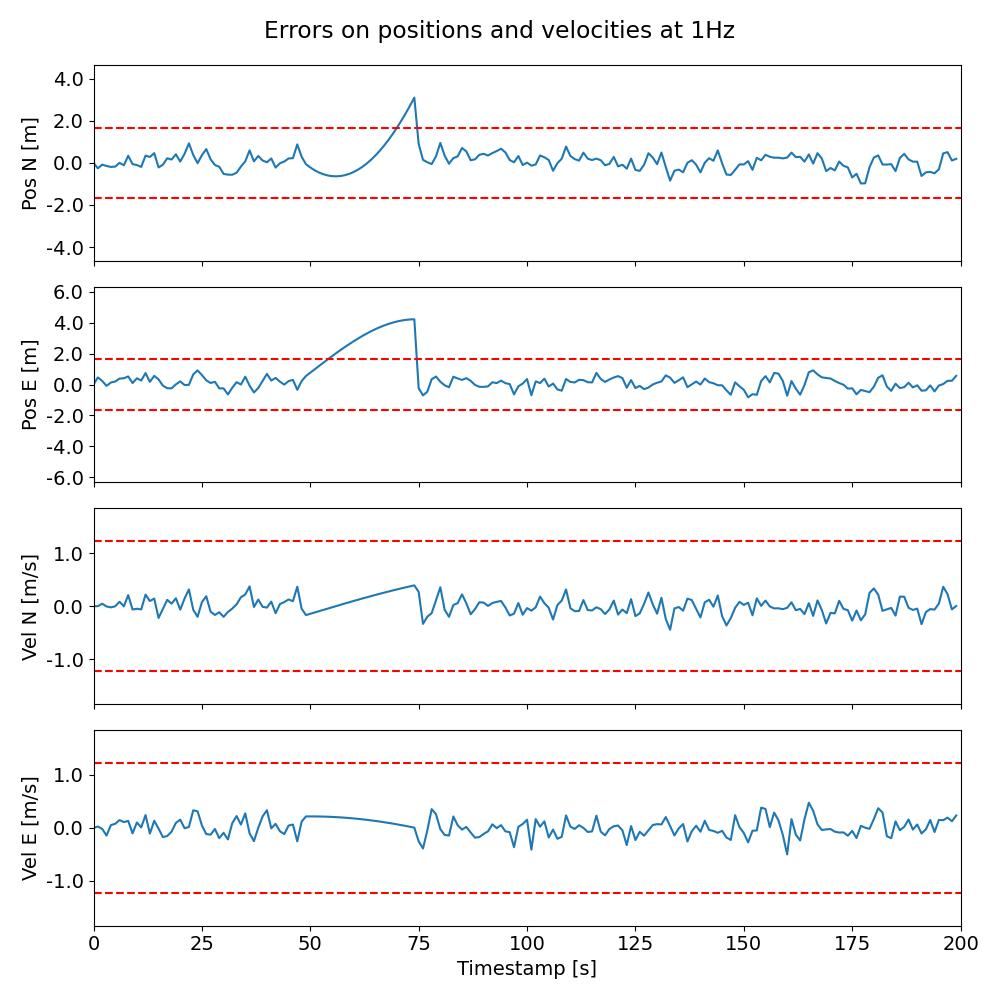
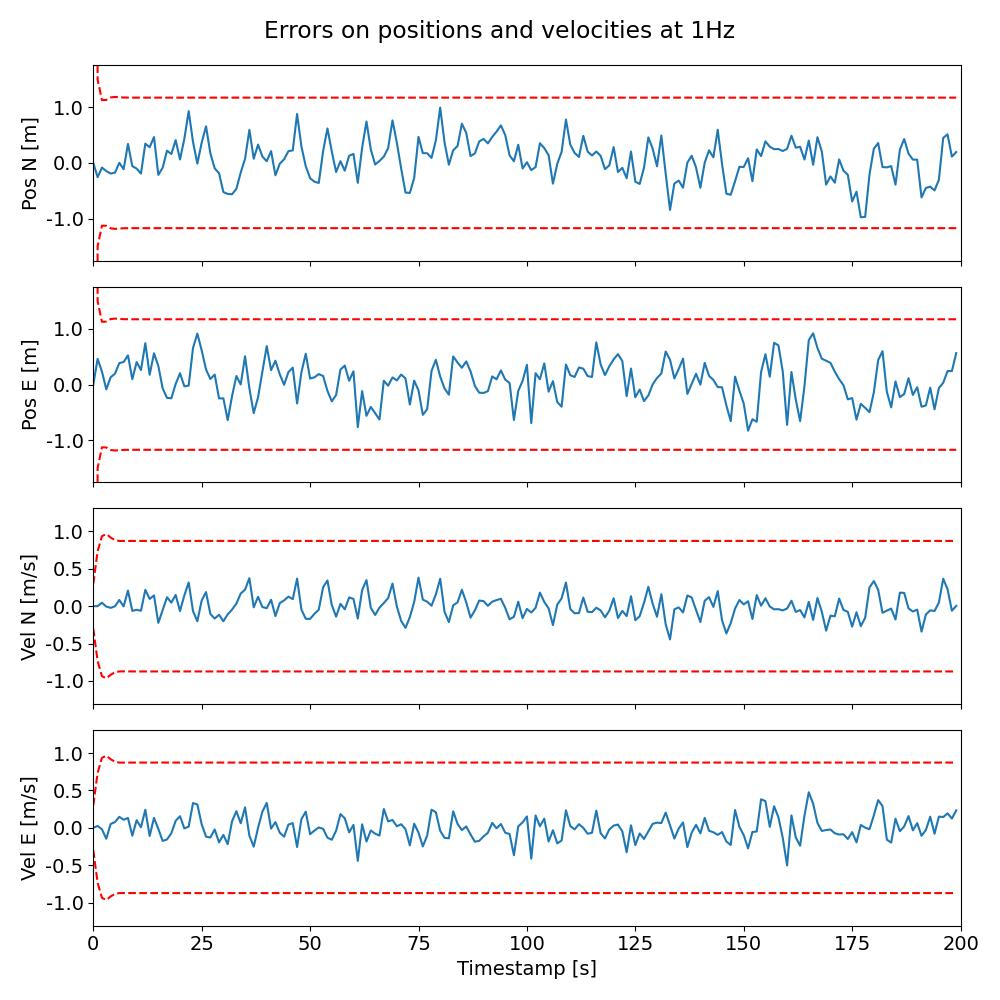
modifs sur lab5

diff --git a/lab5/src/showing_results.py b/lab5/src/showing_results.py
@@ -21,12 +21,13 @@ def save_fig(fig, src, prefix, plot_name, extensions=None):
 	"""
 	if extensions is None:
 		extensions = EXTENSIONS
+
 	paths = [f"{src}/{prefix}_{plot_name}.{extension}" for extension in extensions]
 	for path in paths:
 		fig.savefig(path)
 
 
-def show_trajectory(kf_states, gps_states, prefix, src, do_save_fig=False):
+def show_trajectory(kf_states, gps_states, prefix, freq, src, do_save_fig=False):
 	"""
 	Create plot with trajectory of res + additional plot zoomed on starting point
 	"""
@@ -40,25 +41,27 @@ def show_trajectory(kf_states, gps_states, prefix, src, do_save_fig=False):
 	plt.title(f'Trajectory : {prefix}')
 	plt.tight_layout()
 	if do_save_fig:
-		save_fig(fig, src, prefix, plot_name='trajectory')
+		save_fig(fig, src, str(freq) + "Hz_" + str(prefix), plot_name='trajectory')
 	plt.rcParams.update({'font.size': 10})
 
 
-def show_error(kf_states, ref_states, sigma_pos, sigma_vel, freq,  prefix, src, do_save_fig=False):
+def show_error(kf_states, ref_states, kf_covar_states, freq,  prefix, src, do_save_fig=False):
 	diff = kf_states - ref_states
 	plt.rcParams.update({'font.size':14})
 	fig, axs = plt.subplots(4, 1, figsize=(10, 10), sharex=True)
 	lw = 1.5
 	ls = '--'
-	sigmas = [sigma_pos, sigma_pos, sigma_vel, sigma_vel]
+	#sigmas = [kf_covar_states[:,], sigma_pos, sigma_vel, sigma_vel]
 	y_labels = ['Pos N [m]', 'Pos E [m]', 'Vel N [m/s]', 'Vel E [m/s]', ]
 	fig.suptitle(f"Errors on positions and velocities at {freq}Hz")
 	for i in range(4):
 		axs[i].plot(range(len(diff[:, i])), diff[:, i])
-		axs[i].axline((0, -3 * sigmas[i]),(0.1, -3 * sigmas[i]), linewidth=lw, linestyle=ls, color='r')
-		axs[i].axline((0, 3 * sigmas[i]),(0.1, 3 * sigmas[i]), linewidth=lw, linestyle=ls, color='r')
+		#axs[i].axline((0, -3 * sigmas[i]),(0.1, -3 * sigmas[i]), linewidth=lw, linestyle=ls, color='r')
+		#axs[i].axline((0, 3 * sigmas[i]),(0.1, 3 * sigmas[i]), linewidth=lw, linestyle=ls, color='r')
+		axs[i].plot(range(len(diff[:, i])), 3 * np.sqrt(kf_covar_states[:, i, i]), linewidth=lw, linestyle=ls, color='r' )
+		axs[i].plot(range(len(diff[:, i])), -3 * np.sqrt(kf_covar_states[:, i, i]), linewidth=lw, linestyle=ls, color='r' )
 		axs[i].set_ylabel(y_labels[i])
-		ymax = max(max(diff[:, i]), 3*sigmas[i]) * 1.5
+		ymax = np.max(np.quantile(3*np.sqrt(kf_covar_states[:, i, i]), 0.9)) * 1.5
 		axs[i].set_ylim([-ymax, ymax])
 		axs[i].set_xlim([0, len(diff[:, i])])
 		axs[i].yaxis.set_major_formatter(FormatStrFormatter('%.1f'))
@@ -68,7 +71,7 @@ def show_error(kf_states, ref_states, sigma_pos, sigma_vel, freq,  prefix, src, 
 	if do_save_fig:
 		save_fig(fig, src, str(freq) + "Hz_" + str(prefix), plot_name='errors')
 
-def show_innovation(seq, prefix, src, do_save_fig=False):
+def show_innovation(seq, prefix, freq, src, do_save_fig=False):
 	plt.rcParams.update({'font.size':14})
 	fig,axs = plt.subplots(1,2, figsize=(12,6))
 	axs[0].hist(seq[:,0])
@@ -79,10 +82,10 @@ def show_innovation(seq, prefix, src, do_save_fig=False):
 	axs[1].hist(seq[:,1])
 	axs[1].set_title('East coordinates')
 	axs[1].set_xlabel('error [m]')
-	axs[1].set_ylim([0, 50])
+	#axs[1].set_ylim([0, 50])
 	plt.tight_layout()
 	if do_save_fig:
-		save_fig(fig, src, prefix, plot_name='innovation')
+		save_fig(fig, src, str(freq) + "Hz_" + str(prefix), plot_name='innovation')
 
 	plt.rcParams.update({'font.size':10})
 

diff --git a/lab5/main.py b/lab5/main.py
@@ -6,6 +6,7 @@ import numpy as np
 import scipy as sp
 import matplotlib.pyplot as plt
 
+tunnel_prefix = "_tunnel" if ref.INCLUDE_TUNNEL else ""
 
 def main():
     # Apply random seed for repeatability
@@ -86,7 +87,7 @@ def main():
         for t in time[1:]:  # The initial position is not corrected, start at time[1]
             kf.predict()
             # Condition to add gps measure to kf
-            if t in time_gps and (t<ref.TUNNEL_TIME_START or t>= ref.TUNNEL_TIME_STOP):
+            if t in time_gps and (t<ref.TUNNEL_TIME_START or t>= ref.TUNNEL_TIME_STOP or ref.INCLUDE_TUNNEL == False):
                 ind = time_gps.index(t)
                 z = gps_states[ind]
                 kf.update(z)
@@ -98,7 +99,7 @@ def main():
         kf_covar_states = np.array(kf_covar_states)
 
         # Show trajectories
-        show_trajectory(kf_states, gps_states, f"kf_state_{real}", "lab5/results/trajectory", do_save_fig=True)
+        show_trajectory(kf_states, gps_states, f"kf_state_{real}{tunnel_prefix}", ref.FREQ, "results/trajectory", do_save_fig=True)
 
         # Errors and standard deviations
         # 4.a
@@ -131,11 +132,11 @@ def main():
         p_var_vy = kf_covar_states[:, 3, 3]
         kf_predicted_velocity_quality = np.sqrt(p_var_vx + p_var_vy)
         sigma_vel = np.mean(kf_predicted_velocity_quality[-10:])        
-        show_error(kf_states, ref_states, sigma_pos, sigma_vel, ref.FREQ, real, 'lab5/results/errors', True)
+        show_error(kf_states, ref_states, kf_covar_states, ref.FREQ, f"{real}{tunnel_prefix}", 'results/errors', True)
 
         # Innovation histogram
         innovation_sequence = gps_states - kf_states[::int(ref.FREQ/ref.GPS_FREQ), :2]
-        show_innovation(innovation_sequence, real, 'lab5/results/innovation', True)
+        show_innovation(innovation_sequence, f"{real}{tunnel_prefix}", ref.FREQ, 'results/innovation', True)
         
 
 if __name__ == '__main__':

diff --git a/lab5/src/reference.py b/lab5/src/reference.py
@@ -5,11 +5,12 @@ NUMBER_REALIZATION = 5
 SIMULATION_TIME = 200
 RADIUS = 25  # m
 OMEGA = np.pi / 100  # rad/s
-FREQ = 1   # freq IMU and simulation
+FREQ = 100   # freq IMU and simulation
 DT = 1/FREQ
 GPS_FREQ = 1
 
 # Tunnel
+INCLUDE_TUNNEL = False
 TUNNEL_THETA_START = 90
 TUNNEL_THETA_STOP = 135
 TUNNEL_THETA_START = TUNNEL_THETA_START  * np.pi/180
